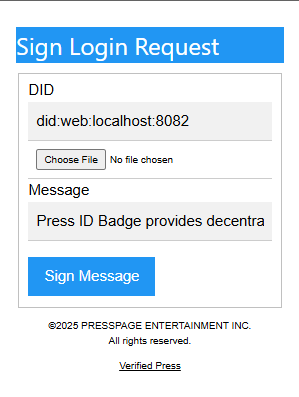
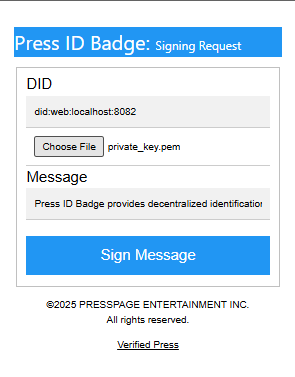
updates

Changed region(s): [[0.0305, 0.0584, 0.9763, 0.8753], [0.122, 0.5252, 0.8847, 0.5836], [0.3966, 0.9045, 0.6102, 0.9337]]

diff --git a/src/edge/popup.html b/src/edge/popup.html
@@ -28,20 +28,15 @@
     </div>
     <!-- SIGNING -->
     <div id="signing" style="display: none;">
-        <h3 class="w3-blue">Sign Login Request</h3>
+        <h4 class="w3-blue">Press ID Badge: <span class="w3-small">Signing Request</span></h4>
         <fieldset>
             <label for="didText">DID</label>
-            <input type="text" id="didText" class="w3-input w3-block w3-light-grey" value="" readonly />
+            <input type="text" id="didText" class="w3-input w3-block w3-tiny w3-light-grey" value="" readonly />
             <input type="file" class="w3-input w3-block w3-tiny" id="privateKeyFile" accept=".pem" title="Browse for your private key PEM file" />
             <input type="hidden" id="privateKeyPEM" value="" />
             <label for="messageText">Message</label>
-            <input type="text" id="messageText" class="w3-input w3-block w3-light-grey" value=""
-                readonly />
-            <button class="w3-button w3-blue w3-margin-top" id="signButton">Sign Message</button>
-            <div id="signatureBox" class="w3-panel w3-pale-green w3-margin-top" style="display:none;">
-                <h4>✅ Signature Generated</h4>
-                <textarea class="w3-input w3-border" id="signatureOutput" readonly></textarea>
-            </div>
+            <input type="text" id="messageText" class="w3-input w3-block w3-tiny w3-light-grey" value="" readonly />
+            <button class="w3-button w3-block w3-blue w3-margin-top" id="signButton">Sign Message</button>
         </fieldset>
         <p class="w3-tiny w3-center">&copy;2025 PRESSPAGE ENTERTAINMENT INC.<br />All rights reserved.</p>
         <p class="w3-tiny w3-center"><a href="https://verifiedpress.org" target="_blank">Verified Press</a></p>
